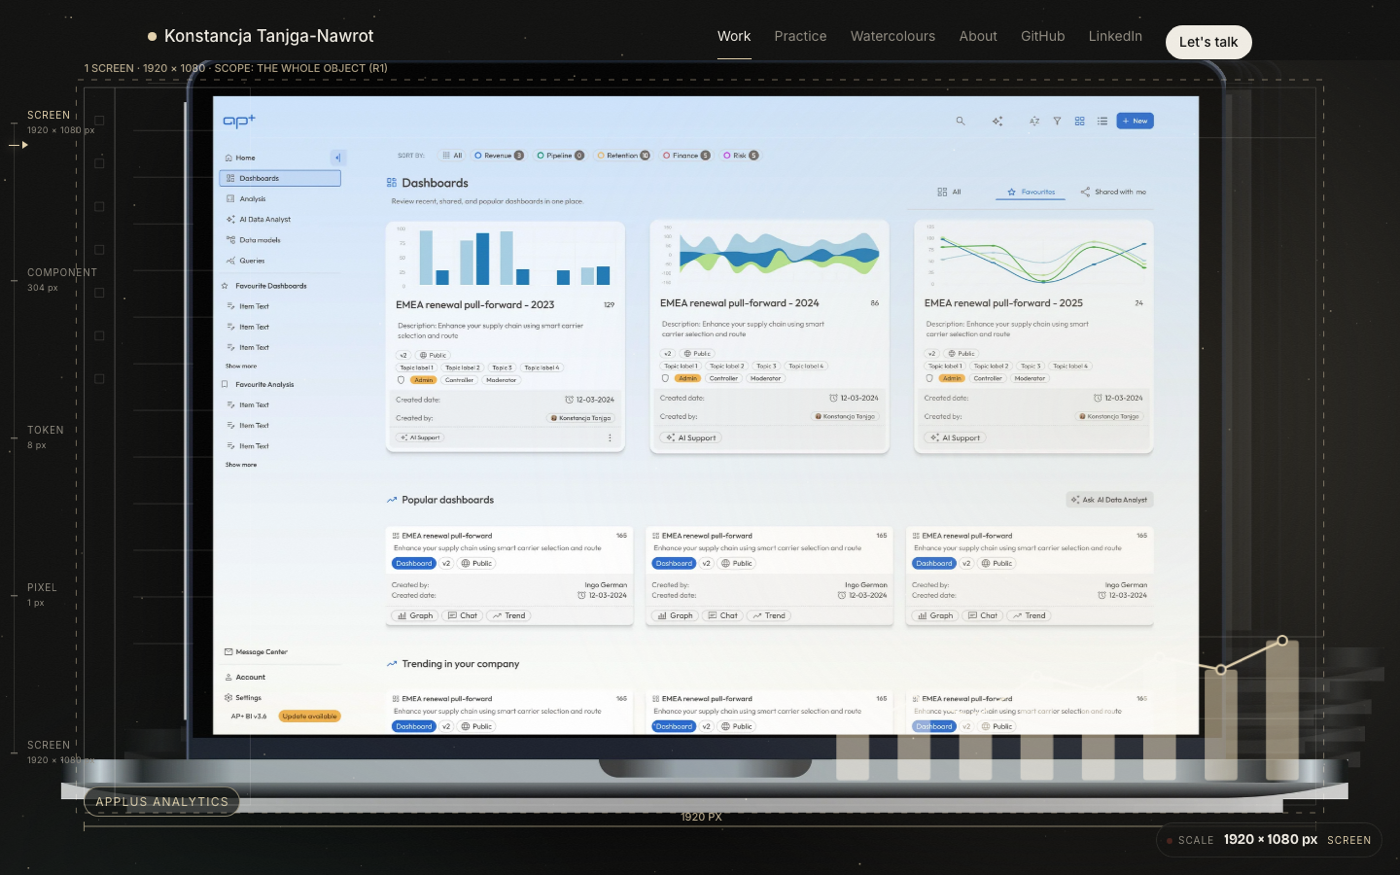
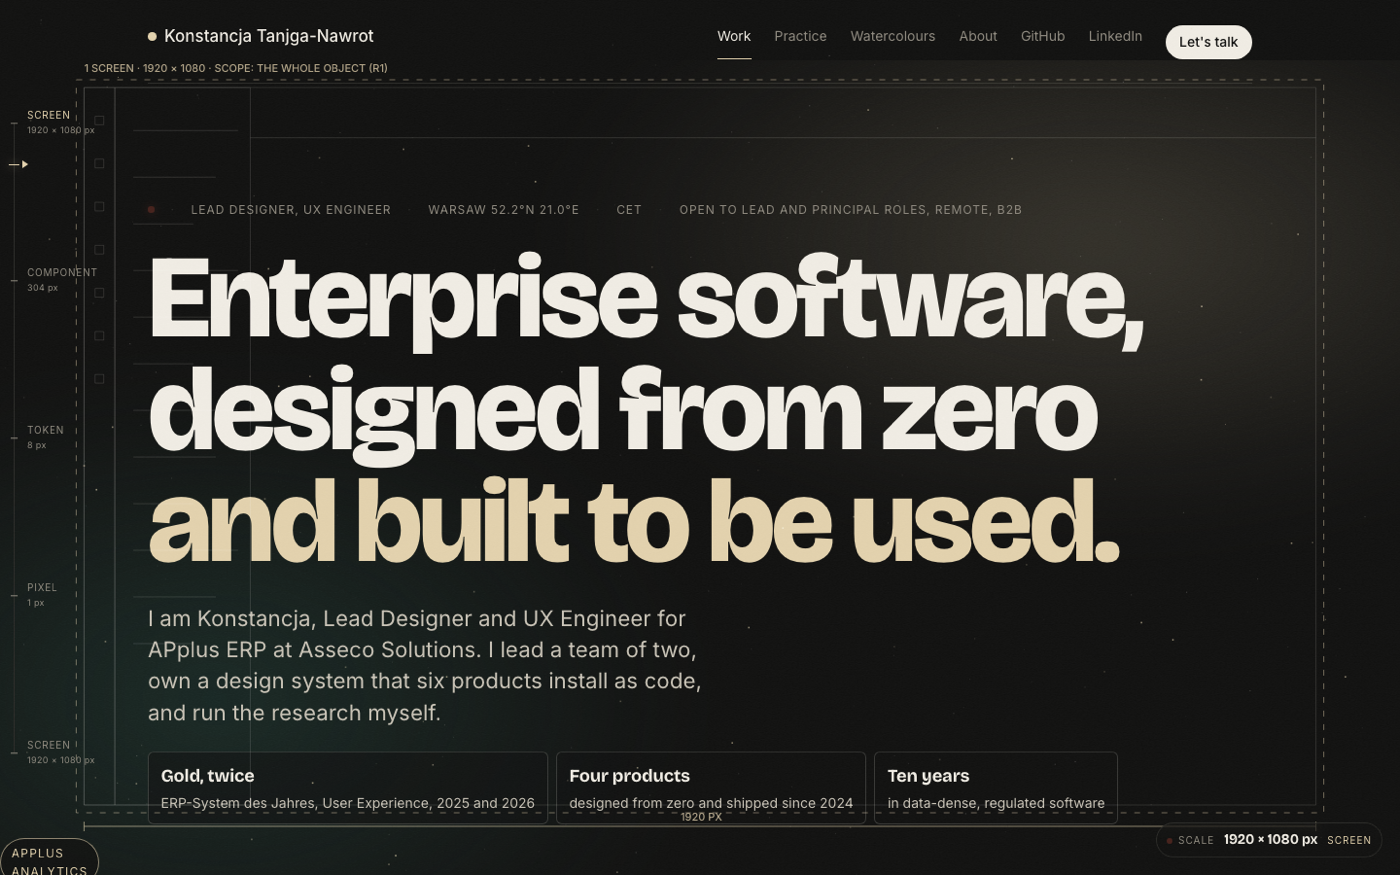
fix(home): scena z ekranami w hero jest absolutna i lezy pod tekstem

diff --git a/site/src/styles/home.css b/site/src/styles/home.css
@@ -529,3 +529,6 @@
 
 @media (max-width: 64rem) { .ruler, .hm-readout { display: none; } }
 @media (prefers-reduced-motion: reduce) { .ruler__marker { transition: none; } .readout__key::before { animation: none; } }
+
+/* the stage is a backdrop: absolute, under the words, whatever the layering rule above says */
+.hm > .hm-hero > .hm-hero__stage { position: absolute; z-index: 1; }
